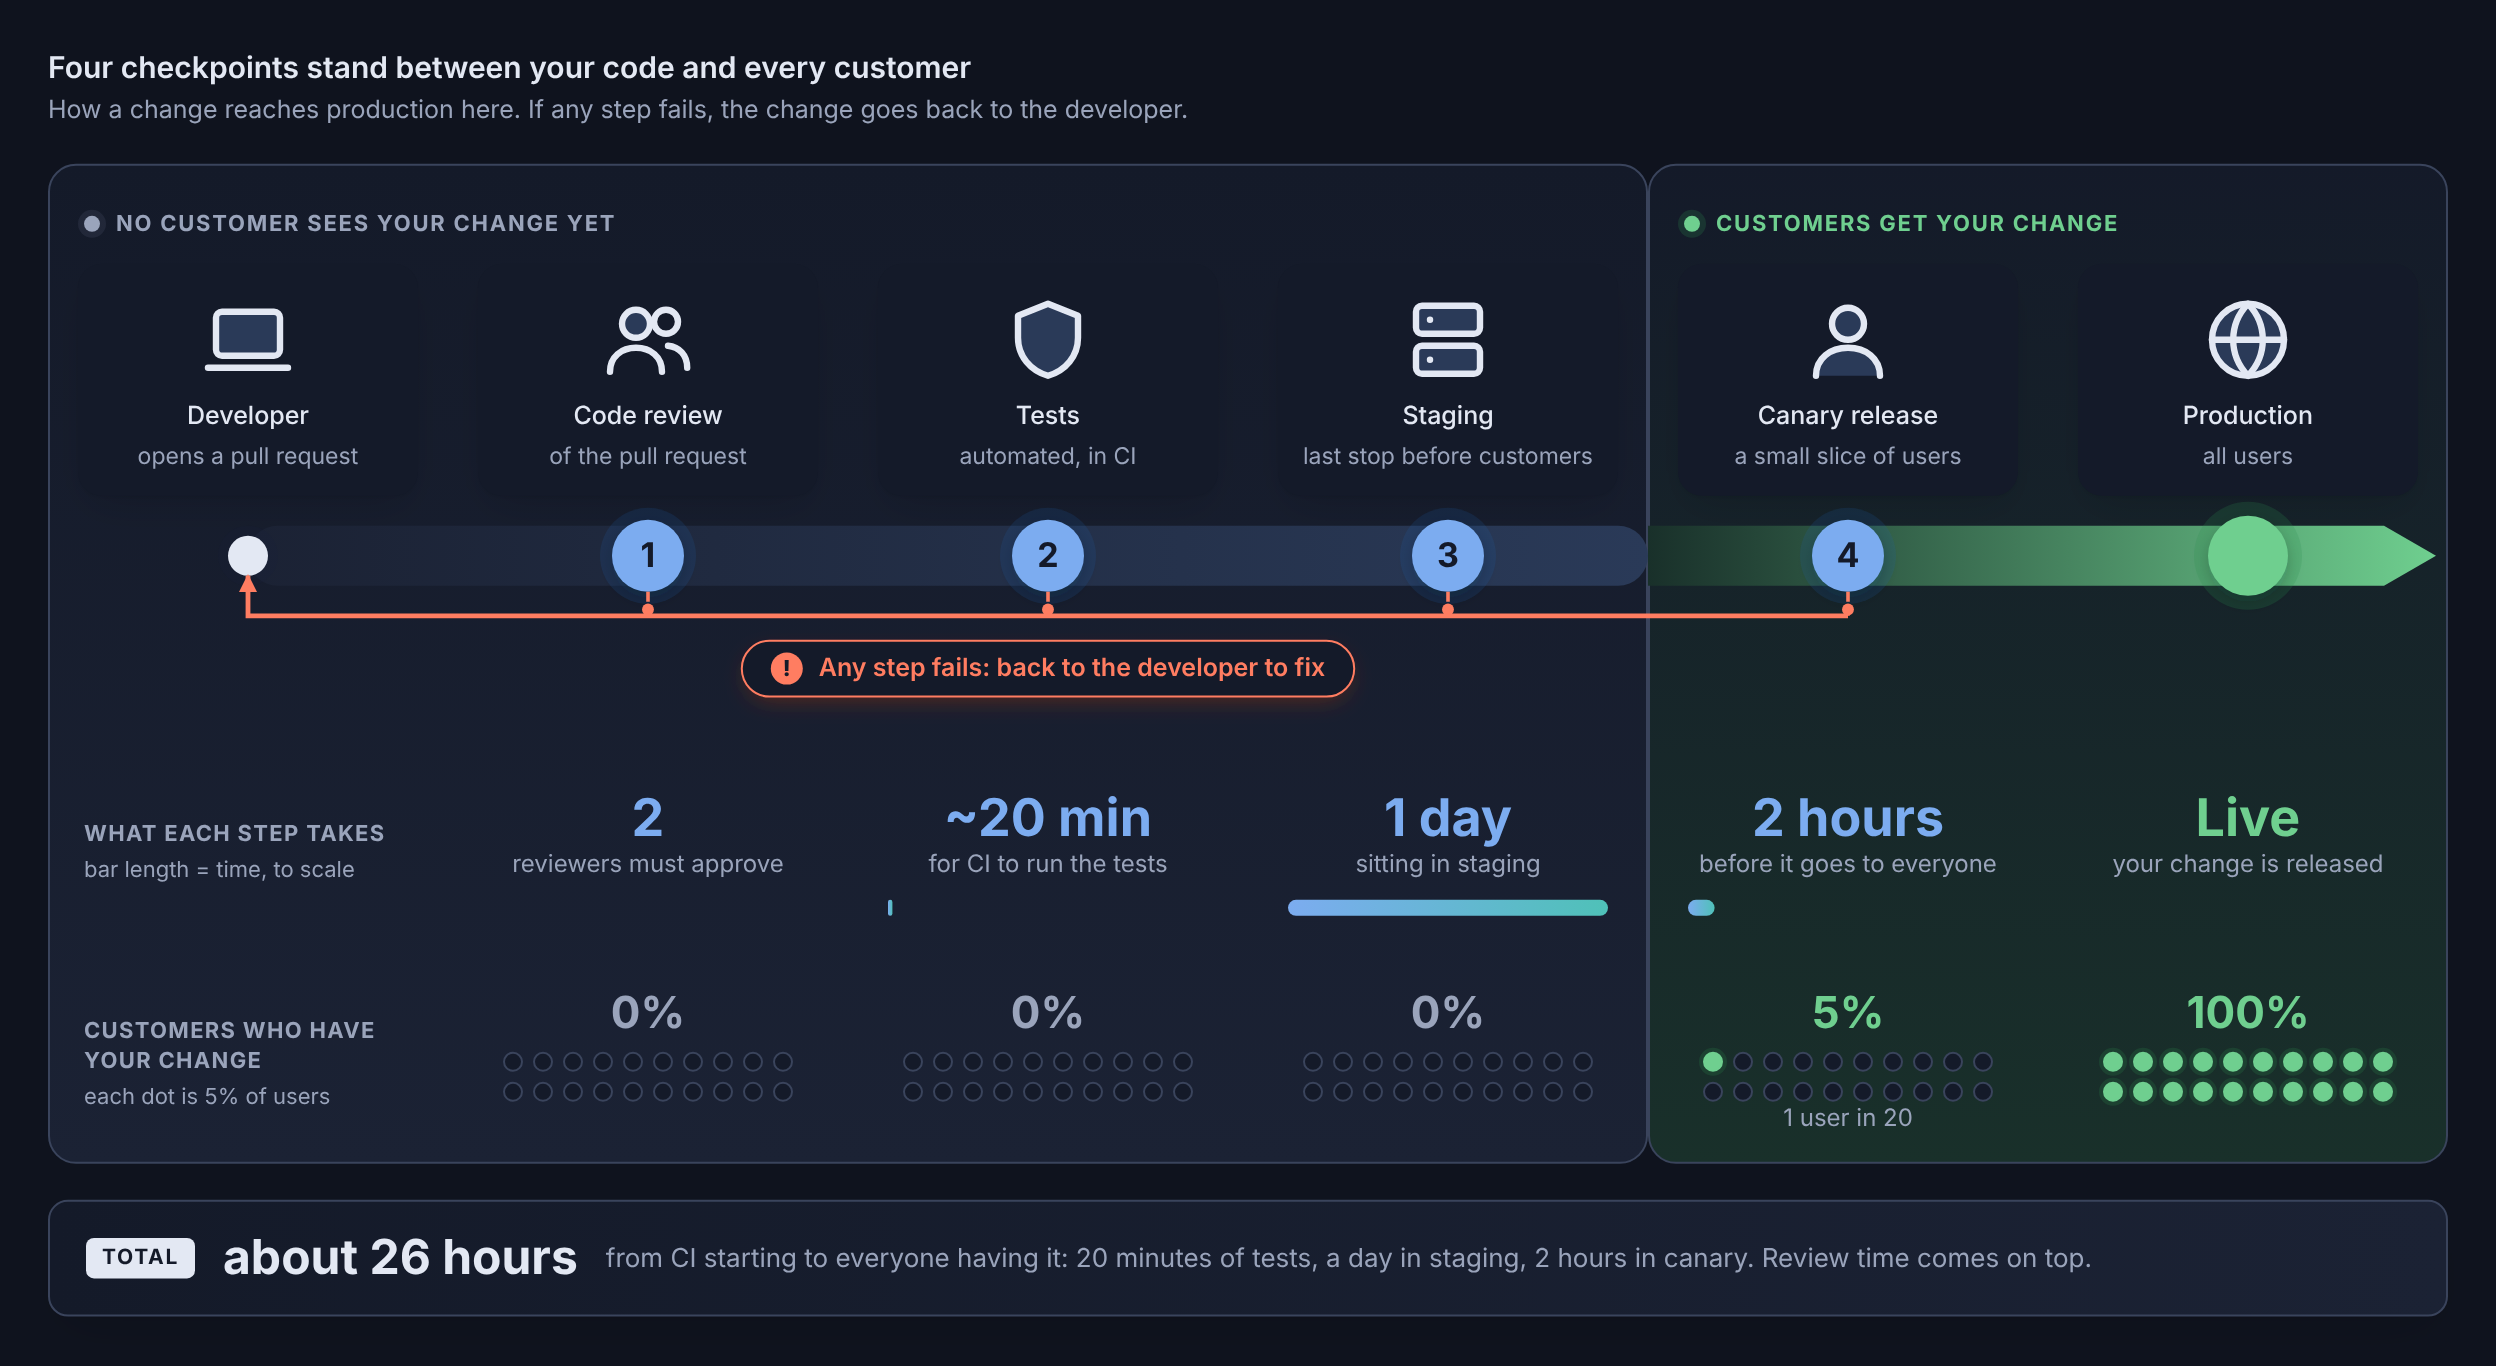
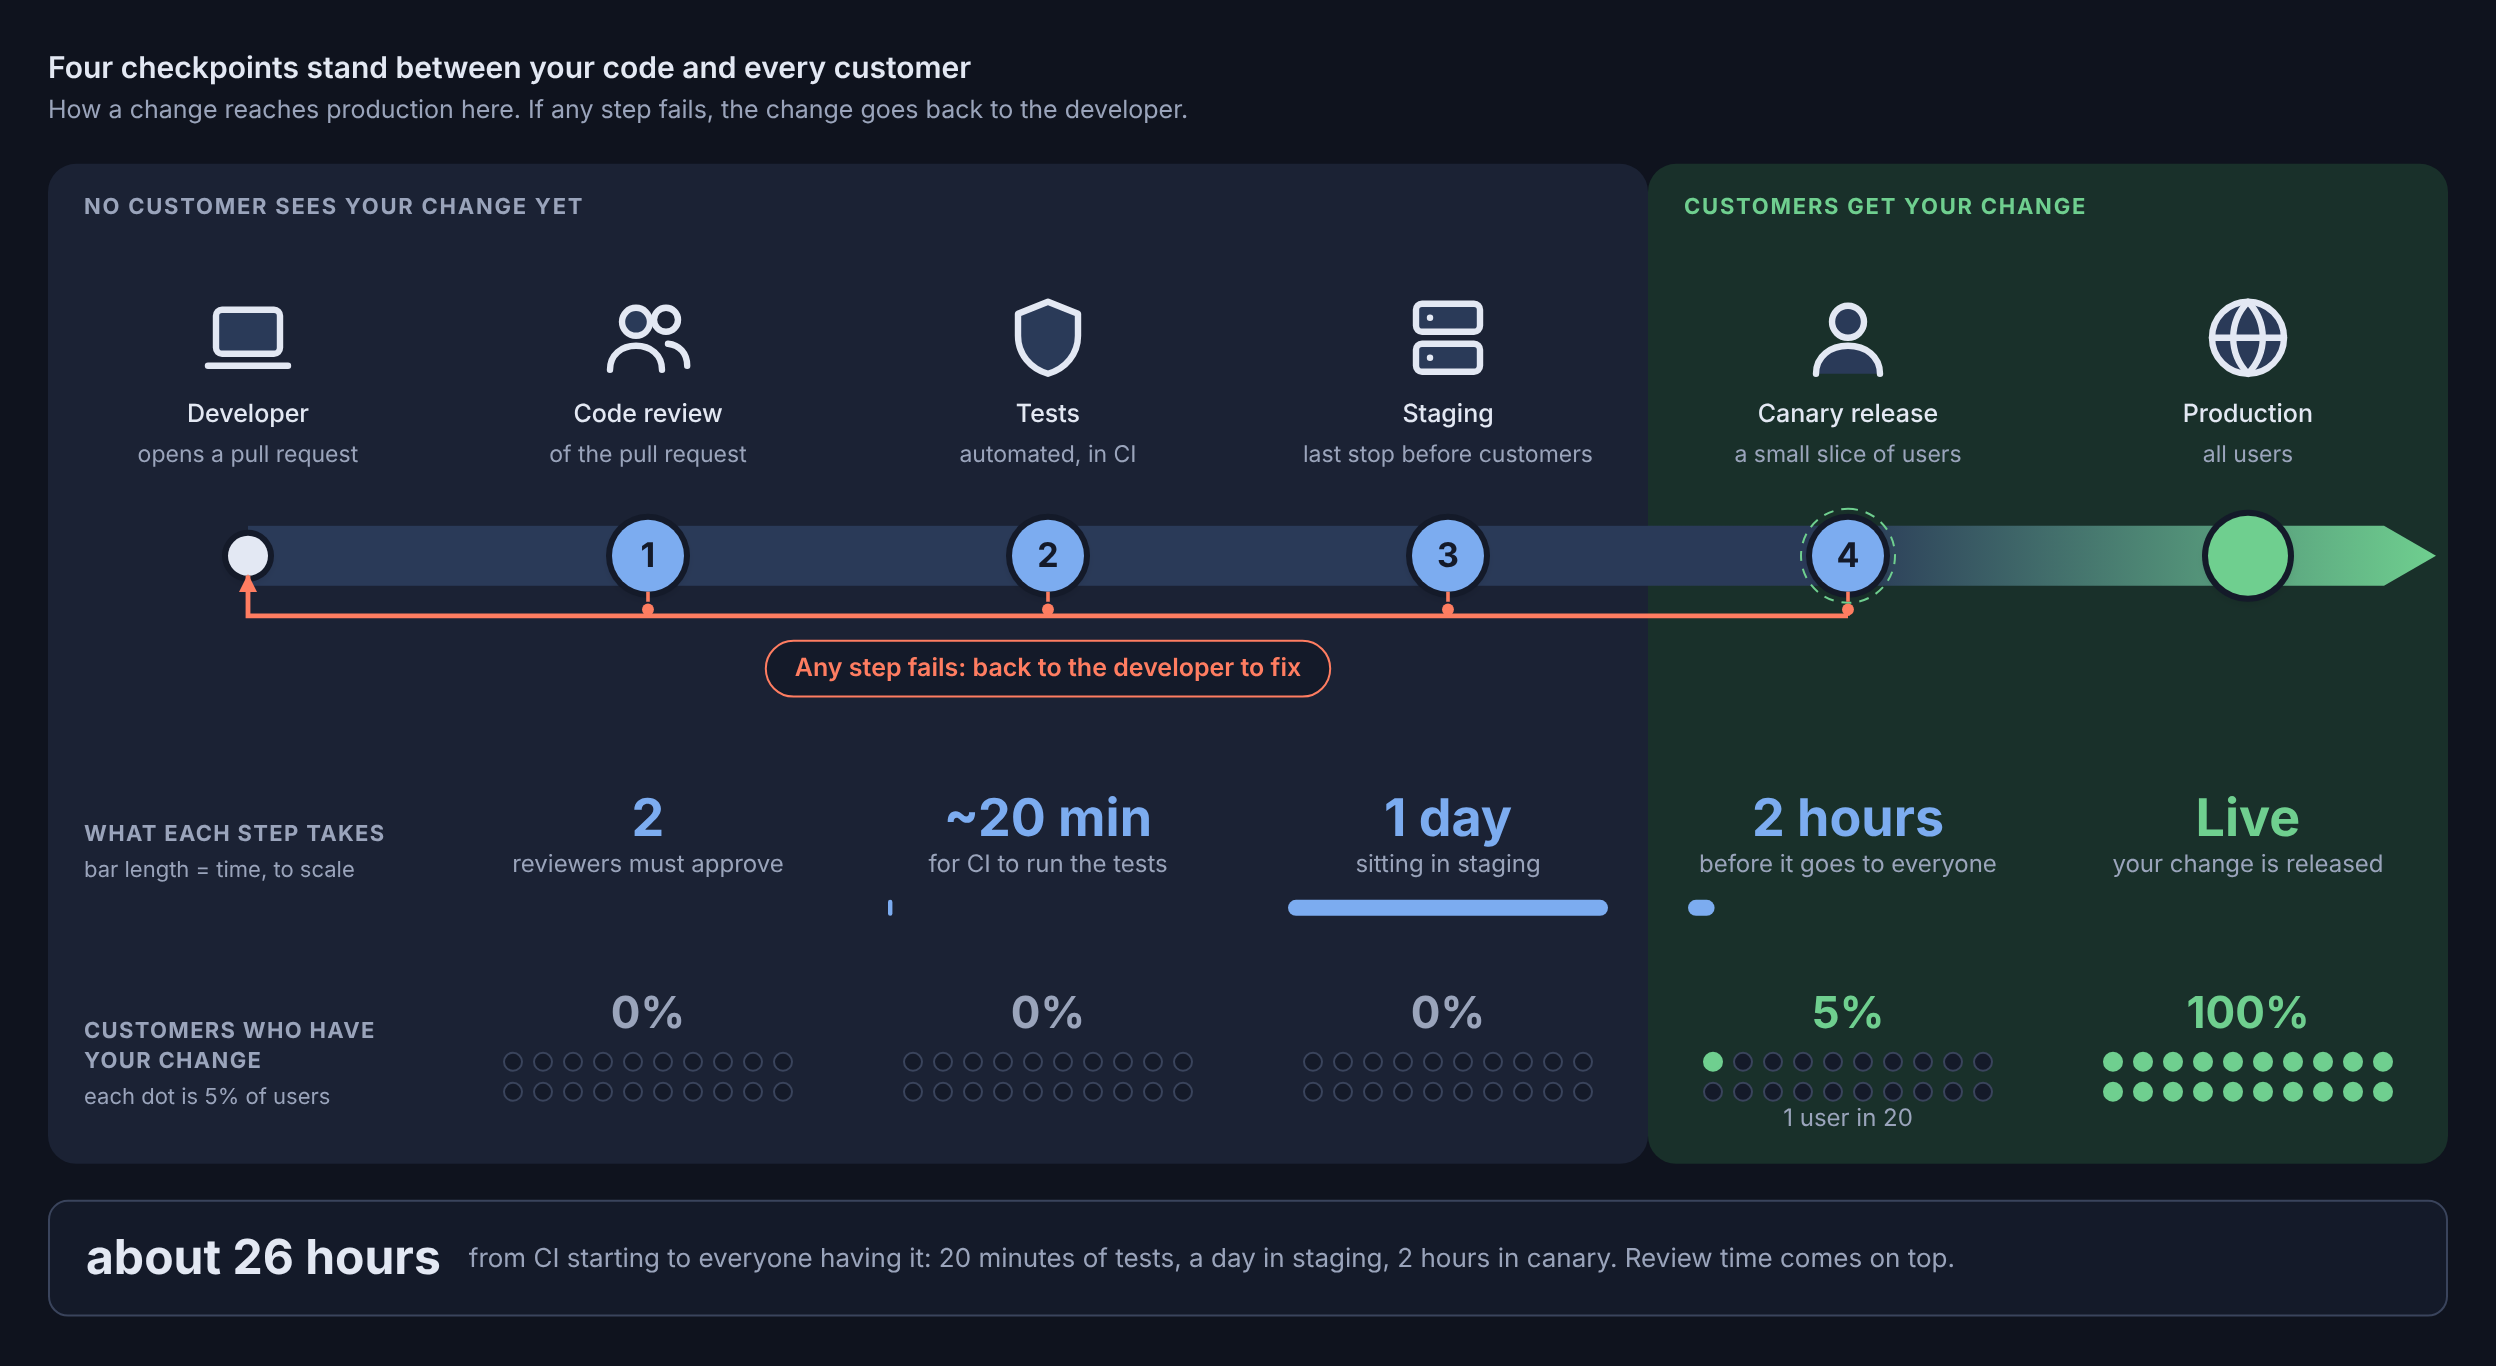
Release gates: three marks of emphasis instead of decoration
Back to the original figure, with only what carries its point: the live
road deepens from blue to green from checkpoint 4 on, as exposure grows;
the stops, the focal point, sit on the road as stations with a ring in
the page colour and a soft shadow; checkpoint 4, where real users first
get the change, is ringed in green. The gradient runs between theme
tokens, so the dark copy follows the theme (the old colour-mix stayed
light in it).

diff --git a/samples/release-gates/diagram.html b/samples/release-gates/diagram.html
@@ -52,25 +52,13 @@ Focal point: the four large numbered stops on the road.
   .dots i.on { background: var(--green); border-color: var(--green); }
   .total { display: flex; align-items: center; gap: 14px; margin-top: 18px; padding: 12px 18px; border-radius: 10px; background: var(--card); border: 1.5px solid var(--line); font-size: 13px; color: var(--muted); }
   .total b { font-size: 24px; font-weight: 700; color: var(--ink); white-space: nowrap; }
-
-  /* Depth and light: the same figure, drawn with the CSS graphally supports. */
-  .zone.safe { background: linear-gradient(180deg, var(--card), var(--wash)); border: 1px solid var(--line); }
-  .zone.live { background: linear-gradient(180deg, var(--card), var(--lane-b)); border: 1px solid var(--line); }
-  .zl { display: flex; align-items: center; gap: 8px; }
-  .zl::before { content: ""; width: 8px; height: 8px; border-radius: 50%; background: var(--muted); box-shadow: 0 0 0 3px color-mix(in srgb, var(--muted) 18%, transparent); }
-  .zl.live::before { background: var(--green); box-shadow: 0 0 0 3px color-mix(in srgb, var(--green) 22%, transparent); }
-  .st .figure { padding: 14px 10px 12px; border-radius: 12px; background: var(--card); box-shadow: 0 1px 2px rgba(16, 24, 40, 0.06), 0 8px 20px -8px rgba(16, 24, 40, 0.18); }
-  .track.a { border-radius: 15px 0 0 15px; background: linear-gradient(90deg, var(--wash), var(--icon-soft)); }
-  .track.b { background: linear-gradient(90deg, var(--lane-b), var(--green)); }
-  .stop { box-shadow: 0 0 0 6px color-mix(in srgb, var(--woad) 16%, transparent), 0 3px 8px rgba(16, 24, 40, 0.25); }
-  .stop.start { box-shadow: 0 0 0 5px color-mix(in srgb, var(--ink) 12%, transparent); }
-  .stop.end { box-shadow: 0 0 0 7px color-mix(in srgb, var(--green) 20%, transparent), 0 3px 8px rgba(16, 24, 40, 0.25); }
-  .rail { display: inline-flex; align-items: center; gap: 8px; box-shadow: 0 4px 12px -4px color-mix(in srgb, var(--rust) 45%, transparent); }
-  .rail::before { content: "!"; width: 16px; height: 16px; border-radius: 50%; background: var(--rust); color: var(--card); font-size: 11px; font-weight: 800; display: flex; align-items: center; justify-content: center; }
-  .tbar { background: linear-gradient(90deg, var(--woad), var(--teal)); }
-  .dots i.on { box-shadow: 0 0 0 2px color-mix(in srgb, var(--green) 20%, transparent); }
-  .total { border: 1px solid var(--line); background: linear-gradient(90deg, var(--card), var(--wash)); box-shadow: 0 1px 2px rgba(16, 24, 40, 0.05), 0 10px 24px -12px rgba(16, 24, 40, 0.22); }
-  .total::before { content: "Total"; font-size: 10.5px; font-weight: 700; letter-spacing: 0.08em; text-transform: uppercase; color: var(--card); background: var(--ink); padding: 3px 8px; border-radius: 4px; }
+  /* Three marks of emphasis, each carrying part of the point. The live road deepens from the
+     safe road's blue to full green as exposure grows (5% at the canary, 100% in production).
+     The stops, the focal point, sit on the road as stations: a ring in the page colour and a
+     soft shadow. Checkpoint 4, where real users first get the change, is ringed in green. */
+  .track.b { background: linear-gradient(90deg, var(--icon-soft) 25%, var(--green)); }
+  .stop { box-shadow: 0 0 0 3px var(--card), 0 2px 6px rgba(16, 24, 40, 0.22); }
+  #s4 { outline: 1.5px dashed var(--green); outline-offset: 5px; }
 </style>
 
 <div class=pipe>
